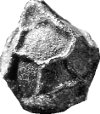
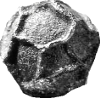
Change pepper image to be more round. Begin work on rolling rock. Add rolling rock to play objects. Comment it out of intro screen so it'll still build

diff --git a/Duologue/PlayObjects/Enemy_RollingRock.cs b/Duologue/PlayObjects/Enemy_RollingRock.cs
@@ -54,12 +54,12 @@ namespace Duologue.PlayObjects
         public Enemy_RollingRock(GamePlayScreenManager manager)
             : base(manager)
         {
-            MyType = TypesOfPlayObjects.Enemy_Mirthworm;
+            MyType = TypesOfPlayObjects.Enemy_RollingRock;
             MajorType = MajorPlayObjectType.Enemy;
             Initialized = false;
 
             // Set the RealSize by hand
-            RealSize = new Vector2(83, 83);
+            RealSize = new Vector2(100, 98);
             Initialized = false;
             Alive = false;
         }

diff --git a/Duologue/Screens/CompanyIntroScreen.cs b/Duologue/Screens/CompanyIntroScreen.cs
@@ -135,6 +135,8 @@ namespace Duologue.Screens
                 TypesOfPlayObjects.Player,
                 TypesOfPlayObjects.PlayerBullet,
                 TypesOfPlayObjects.Enemy_AnnMoeba,
+                TypesOfPlayObjects.Enemy_ProtoNora,
+                //TypesOfPlayObjects.Enemy_RollingRock,
             };
 
             currentPlayObjectIndex = 0;

diff --git a/Duologue/PlayObjects/PlayObject.cs b/Duologue/PlayObjects/PlayObject.cs
@@ -46,6 +46,7 @@ namespace Duologue.PlayObjects
         Enemy_Mirthworm,
         Enemy_AnnMoeba,
         Enemy_ProtoNora,
+        Enemy_RollingRock,
     }
 
     /// <summary>
